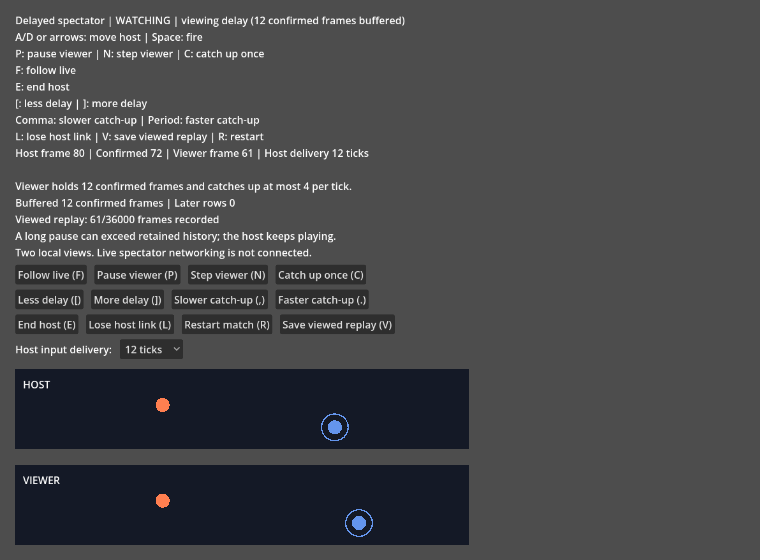
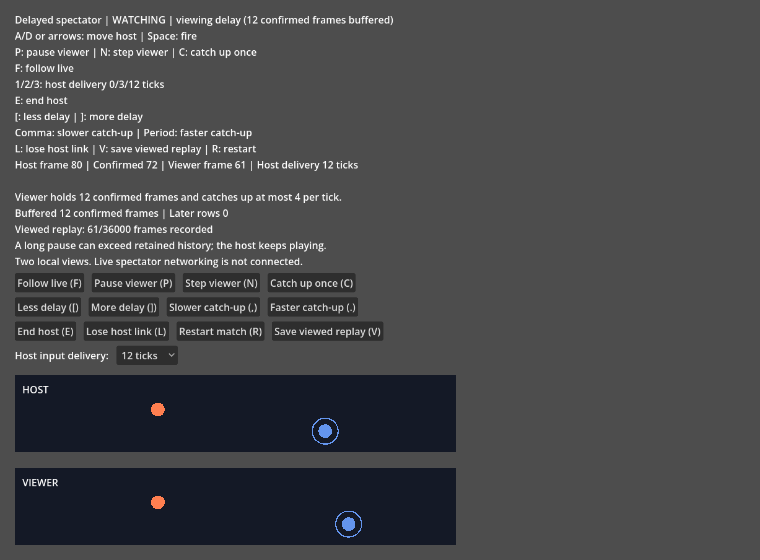
Keep spectator host delay accessible from the keyboard
Route 1/2/3 through the existing host-delay handler so keyboard users can select 0/3/12 ticks while pointer clicks preserve movement focus. Preserve composed ownership, ending, modifier, repeat and release gates.

The new keyboard assertions fail before repair and pass on both pins. All 192 deferred GUI checks pass twice per pin. Fresh adversarial repair review is clean. Record the accessibility rule in existing testing guidance.

diff --git a/.llm/retrospectives/2026-11-03-playable-controls.md b/.llm/retrospectives/2026-11-03-playable-controls.md
@@ -14,6 +14,7 @@ rendered screenshots and fresh adversarial review.
 | A refused controller reset cleared scene effects | `examples/integration/integration.gd::_restart`; `test_integration_demo.gd::_restart_presentation` fails before repair | Reset presentation only after successful controller replacement; add this rule to the existing GDScript skill |
 | Preflight acceptance does not establish seek success | Fresh review reproduces `checkpoint_checksum` rejection through the frame field | Preserve seek's returned acceptance; retain editing focus on refusal; exercise actual GUI submission in the existing deferred probe |
 | Control layout must reserve actual game geometry | Rendered effects scene initially placed buttons across the board edge | Derive board placement and scaling from controls; inspect the rendered result |
+| A focusless selector omitted keyboard access | Automatic review; host-delay case fails before number-key handling | Add 1/2/3 through the shared handler, actual routed-key checks and the existing browser-integration test guidance |
 | GUI fixtures need settled layout before text replacement | Deferred SpinBox updates replaced injected text with its prior value | Await completed layout before typing; retain paired healthy and damaged-restore cases |
 
 The metadata-control hypothesis was discarded after inspecting the replay

diff --git a/docs/spectators.md b/docs/spectators.md
@@ -17,7 +17,7 @@ godot --path . res://examples/spectator/spectator.tscn
 
 The upper board is a playable host with delayed remote input and actual rollback.
 The lower board follows its corrected input history, initially twelve confirmed frames behind.
-Choose **Host input delivery** of 0, 3 or 12 ticks to explore delayed confirmation, prediction stalls and viewer buffering.
+Choose **Host input delivery** of 0, 3 or 12 ticks, or press **1/2/3**, to explore delayed confirmation, prediction stalls and viewer buffering.
 This changes future remote-input delivery at the playable host, independently of the viewer's viewing delay.
 Already queued deliveries retain their schedule. Active host/viewer game work and clean host ending hold the selector.
 Restart restores the default three-tick host delivery delay.

diff --git a/.llm/skills/testing/references/browser-integration.md b/.llm/skills/testing/references/browser-integration.md
@@ -13,6 +13,7 @@ Inject each actual failure signal at that last boundary and require nonzero exit
 with no success marker. Correct game state can outlive a late connection failure.
 
 Exercise actual UI controls during playback, after failure and at completion.
+Controls that suppress GUI focus to preserve movement need equivalent keyboard actions; exercise both routes through the same ownership gates.
 Cross shortcut routing with focused buttons as well as text editors. Godot GUI focus navigation consumes arrow keys before `_unhandled_key_input`; use nonconflicting action keys.
 Cross match shortcuts with Ctrl, Alt, Meta, Shift, release and echo events. Preserve intentional shifted punctuation,
 such as Plus, and verify that ordinary reset still replaces the match.

diff --git a/CHANGELOG.md b/CHANGELOG.md
@@ -6,7 +6,7 @@
 
 - Add delay, replay and restart buttons to the effects example, with movement focus preserved.
 
-- Add host input delivery controls to the local spectator to explore prediction stalls and buffering independently of viewing delay.
+- Add host input delivery controls and 1/2/3 shortcuts to the local spectator to explore prediction stalls and buffering independently of viewing delay.
 
 - Add Enter-to-go in the replay frame field. Accepted navigation restores playback shortcuts; refused navigation preserves editing focus.
 
